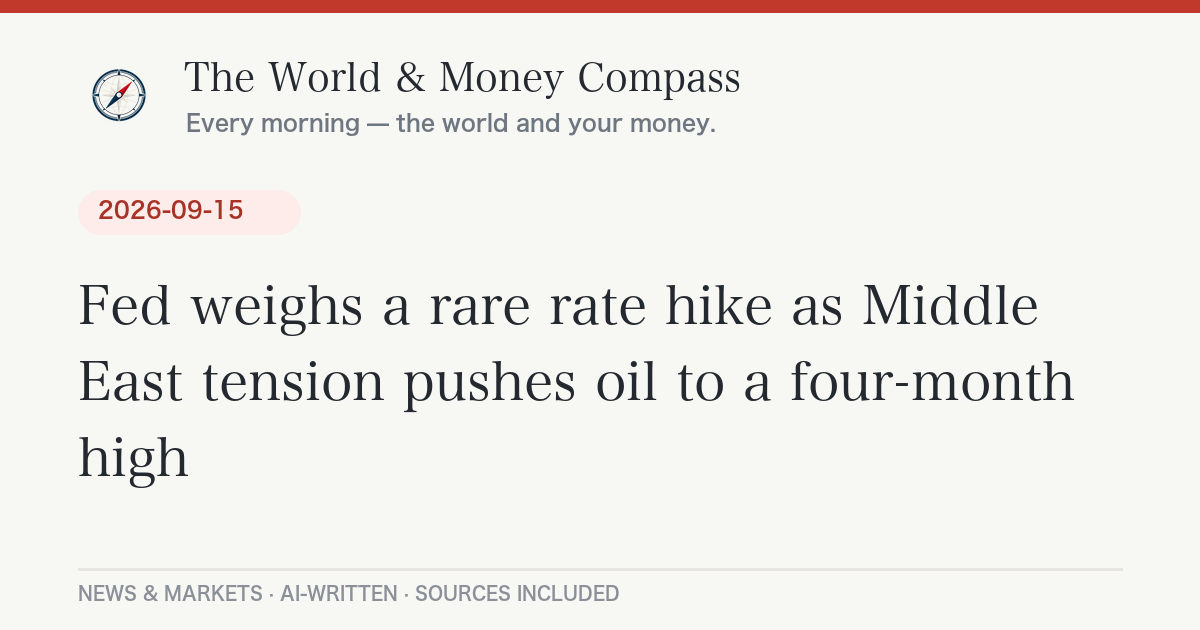
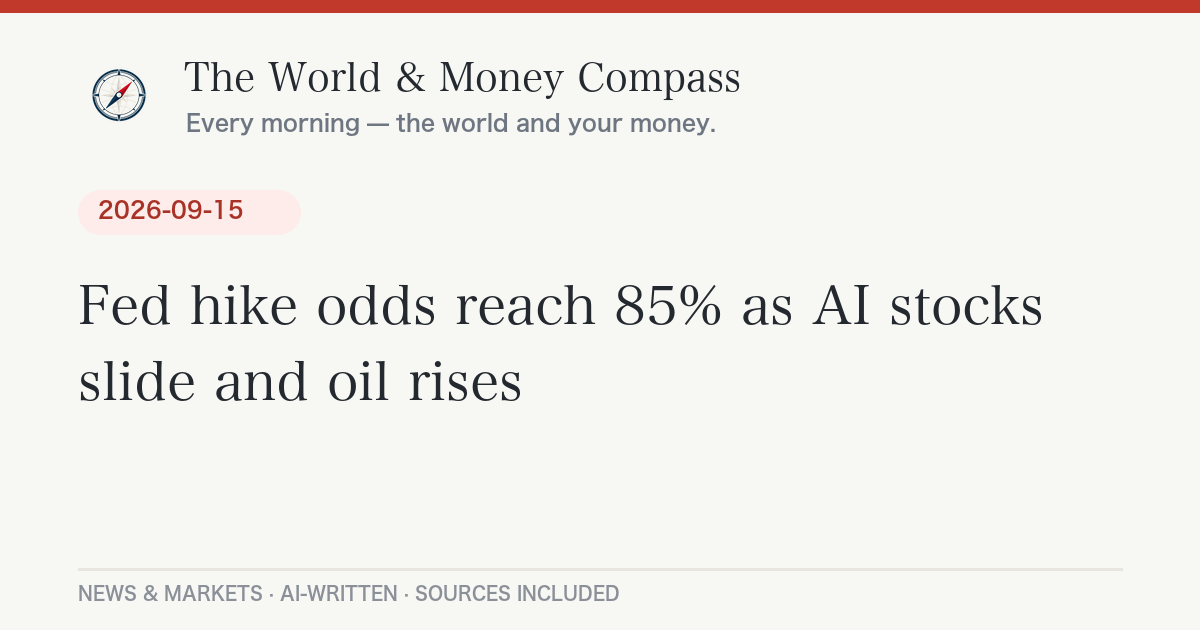
Daily briefing 2026-09-17

Changed region(s): [[0.0617, 0.573, 0.8942, 0.6635], [0.1542, 0.4524, 0.8633, 0.5429], [0.0617, 0.6937, 0.1542, 0.7841]]

diff --git a/_posts/2026-09-17-daily-briefing.md b/_posts/2026-09-17-daily-briefing.md
@@ -1,0 +1,101 @@
+---
+layout: post
+lang: ja
+title: "FRB3年ぶり利上げで米国株急落｜9月17日のニュースとお金"
+date: 2026-09-17 07:37:19 +0900
+categories: [ニュース, 経済]
+headline: "FRB3年ぶり利上げで米国株急落"
+permalink: /2026/09/17/daily-briefing/
+---
+
+## 今日のポイント
+
+FRB（米連邦準備制度理事会）が3年ぶりとなる利上げに踏み切り、ニューヨーク株式市場が大きく下落しました。原油高を背景にした根強いインフレへの警戒が理由です。国内では高市首相のもとで内閣改造が本日行われ、日本維新の会から初入閣が実現する見通しです。株式市場では前日の下落の反動と半導体株高から日経平均が反発しました。
+
+## 今日の羅針盤（Compass Insight）
+
+今日の一番のポイントは、「利上げ＝景気にブレーキ」という単純な図式ではなく、**原油高が主犯のインフレに対する後追いの対応**だという点です。FRBのウォーシュ議長は声明で「インフレは依然高止まりしている」と明言しており、利上げは需要を冷やすためというより、物価上昇の勢いを止めるための措置という色合いが濃いといえます。
+
+家計への影響としては、ドル金利上昇は円安圧力になりやすく、すでに1ドル155円台という水準が続いていることを踏まえると、輸入品やエネルギー価格を通じて日本の生活コストに波及する可能性があります。一方で住宅ローンなど日本国内の金利は日銀の判断に左右されるため、直接連動するわけではありません。ちょうど17〜18日に日銀の金融政策決定会合が開かれており、市場では追加利上げの観測も出ています。結果発表は18日午後の予定で、円相場や国内金利がどちらに振れるかの分岐点になりそうです。
+
+短期的には、原油価格の動向（中東の供給不安）とFRBの追加利上げ観測が株式市場のボラティリティを左右する要因として注目されます。中長期では、インフレが賃金や物価にどこまで定着するかが、日米双方の金融政策運営の鍵を握ります。投資判断はあくまで自己責任で、こうした金利・物価の綱引きを一つの視点として見ておくとよさそうです。
+
+## 今日のニュース
+
+### 日本
+- 高市早苗首相のもとで**9月17日、内閣改造**が行われる。木原官房長官、片山財務相、茂木外相、小泉防衛相らが留任する方向で、連立を組む日本維新の会から初の入閣者が出る見通し（[時事ドットコム](https://www.jiji.com/jc/article?k=2026091600667&g=pol)）
+- **日銀の金融政策決定会合が17〜18日の日程で開催**。結果発表は18日昼前後の予定で、追加利上げの有無が焦点
+- **大型の台風25号（ドゥージェン）が発生**。18〜19日にかけて小笠原諸島へ接近する見込みで、シルバーウィーク中に東日本へ近づく可能性も指摘されている（[ウェザーニュース](https://weathernews.jp/news/202609/160241/)）
+
+### 世界
+- **欧州連合（EU）のフォンデアライエン欧州委員長が、カナダをEUの「準加盟国」第1号にする構想を提案**。トランプ米大統領の関税政策を背景に、カナダが欧州との連携を強めている流れを受けたもの（[Al Jazeera](https://www.aljazeera.com/news/2026/9/16/eu-chief-von-der-leyen-proposes-associate-member-status-for-canada)）
+- **ロシアで下院選が今週末（9月18〜20日）に投票される**予定。与党「統一ロシア」の優勢が伝えられている
+- コソボの戦犯法廷が旧大統領サチ元被告に**禁錮25年の判決**を言い渡し、抗議デモが発生（[Euronews](https://www.euronews.com/europe)）
+
+### アメリカ
+- **FRBが政策金利を0.25%引き上げ、3.75〜4%とした**。3年ぶりの利上げで、ウォーシュ議長は「インフレは依然高止まり」と説明（[CNBC](https://www.cnbc.com/2026/09/16/fed-rate-decision-september-2026.html)、[FRB公式発表](https://www.federalreserve.gov/newsevents/pressreleases/monetary20260916a1.htm)）
+- 利上げ発表を受けニューヨーク株式市場が下落。ダウ平均は前日比600ドル超安（[Yahoo Finance](https://finance.yahoo.com/markets/live/stock-market-today-wednesday-september-16-dow-sp-500-nasdaq-fed-meeting-decision-080356525.html)）
+- ロサンゼルス近郊チャッツワースで**NBC系列局のニュース取材ヘリコプターが墜落**。バス衝突事故を取材中だった機内の記者・操縦士2人と、巻き込まれた地上の歩行者1人の計3人が死亡した（[NBC Los Angeles](https://www.nbclosangeles.com/news/local/helicopter-crashes-in-chatsworth/3942738/)、[NPR](https://www.npr.org/2026/09/16/nx-s1-5970477/helicopter-crash-los-angeles)）
+
+### ヨーロッパ
+- 上記のEU・カナダ準加盟国構想が欧州の外交ニュースの中心に
+- フランスでルノー・日産をめぐる汚職事件の裁判が進行中
+- 欧州議会で外国からの選挙介入への警戒を求める声が上がっている
+
+## 経済とお金の動き
+
+### 世界の市場・相場
+
+| 指標 | 値 | 前日比 |
+|---|---|---|
+| ダウ工業株30種平均 | 51,461.90ドル | <span class="chg-down">-631.21ドル（-1.21%）</span> |
+| S&P500 | 7,551.81 | <span class="chg-down">-0.45%</span> |
+| ナスダック総合 | 25,978.42 | <span class="chg-down">-0.01%</span> |
+| WTI原油（9/15時点） | 約105.75ドル/バレル | <span class="chg-up">+4.36ドル（+4.30%）</span> |
+| ドル円 | 155.05円（9/16基準） | ― |
+
+（[Yahoo Finance](https://finance.yahoo.com/markets/live/stock-market-today-wednesday-september-16-dow-sp-500-nasdaq-fed-meeting-decision-080356525.html)、原油は中東の供給不安を背景に急伸。ドル円はfrankfurter APIの欧州中央銀行基準レート）
+
+FRBの利上げそのものより、**原油高がインフレの主因になっている構図**が市場の警戒を強めています。サウジアラビア紅海側の積み出し拠点での操業停止や、リビアの反政府デモによる減産観測が原油高の背景として伝えられています。
+
+### アメリカの経済
+
+3年ぶりの利上げにより、政策金利は3.75〜4%に。ウォーシュ議長は会見で追加利上げの可能性にも言及しており、市場は年内あと1回の利上げを織り込みつつあります。エネルギー価格上昇によるインフレ圧力が、雇用の底堅さと合わせて利上げ継続の根拠とされています。
+
+### 日本の経済
+
+日経平均株価は**63,923.00円、前日比+438.90円（+0.69%）**で反発しました（[株探ニュース](https://kabutan.jp/news/marketnews/?b=n202609161039)）。米半導体株高や韓国総合株価指数の堅調さを受け、午後にかけて半導体関連銘柄への買いが入ったことが要因です（[NHKニュース](https://news.web.nhk/newsweb/na/nd-20260916de50526)）。17〜18日の日銀会合の結果次第で、今後の株式・為替の流れが変わる可能性があります。
+
+## 今日の注目銘柄・セクター
+
+- **半導体関連株**：前日までの下落の反動に加え、米国・韓国の半導体株高を受けて買いが入り、日経平均の反発をけん引した
+- **原油関連（エネルギー株）**：中東の供給不安を背景にWTI原油が急伸したことで、資源・エネルギー関連銘柄への関心が高まっている
+- **金融株（米国）**：FRBの利上げは銀行の利ざや改善につながる面がある一方、株式市場全体の下落局面では方向感が定まりにくい状況
+
+*※特定銘柄の売買を推奨するものではありません。投資判断はご自身の責任で。*
+
+## まとめ：注目の3つ
+
+1. FRBが3年ぶりに利上げ（政策金利3.75〜4%）、原油高によるインフレ長期化への警戒が背景
+2. 高市改造内閣が本日発足、日本維新の会から初入閣の見通し。17〜18日の日銀会合の結果にも注目
+3. 日経平均は半導体株高で反発（63,923円、+0.69%）も、米国株安・原油高・台風接近など不確実要素が重なる
+
+---
+<div class="post-sources" markdown="1">
+
+**出典：**
+- [第２次高市改造内閣、１７日発足（時事ドットコム）](https://www.jiji.com/jc/article?k=2026091600667&g=pol)
+- [Fed rate decision September 2026: Rates rise to 3.75%-4%（CNBC）](https://www.cnbc.com/2026/09/16/fed-rate-decision-september-2026.html)
+- [Federal Reserve Implementation Note（FRB公式）](https://www.federalreserve.gov/newsevents/pressreleases/monetary20260916a1.htm)
+- [Stock market today: Dow sinks 600 points（Yahoo Finance）](https://finance.yahoo.com/markets/live/stock-market-today-wednesday-september-16-dow-sp-500-nasdaq-fed-meeting-decision-080356525.html)
+- [3 dead after helicopter crash in Chatsworth（NBC Los Angeles）](https://www.nbclosangeles.com/news/local/helicopter-crashes-in-chatsworth/3942738/)
+- [News helicopter crash kills 3（NPR）](https://www.npr.org/2026/09/16/nx-s1-5970477/helicopter-crash-los-angeles)
+- [EU chief proposes associate member status for Canada（Al Jazeera）](https://www.aljazeera.com/news/2026/9/16/eu-chief-von-der-leyen-proposes-associate-member-status-for-canada)
+- [大型台風25号発生（ウェザーニュース）](https://weathernews.jp/news/202609/160241/)
+- [日経平均大引け：前日比438.90円高（株探ニュース）](https://kabutan.jp/news/marketnews/?b=n202609161039)
+- [日経平均株価 値上がり 半導体関連銘柄などに買い注文（NHKニュース）](https://news.web.nhk/newsweb/na/nd-20260916de50526)
+- 為替データ: [frankfurter API](https://api.frankfurter.app/)
+
+*本記事は公開情報をもとに作成しています。*
+
+</div>

diff --git a/_posts/2026-09-17-daily-briefing-en.md b/_posts/2026-09-17-daily-briefing-en.md
@@ -1,0 +1,59 @@
+---
+layout: post
+lang: en
+title: "Fed Hikes Rates to 3.75%-4%, First Hike in Three Years — September 17, 2026"
+date: 2026-09-17 07:37:19 +0900
+headline: "Fed Hikes Rates to 3.75%-4%, First Hike in Three Years"
+permalink: /2026/09/17/daily-briefing/
+---
+
+## Top U.S. Stories
+
+- The Federal Reserve raised its benchmark interest rate by 25 basis points to a target range of **3.75%-4%**, its first hike in three years, with Chair Kevin Warsh citing persistently elevated inflation driven by rising energy prices ([CNBC](https://www.cnbc.com/2026/09/16/fed-rate-decision-september-2026.html), [Federal Reserve](https://www.federalreserve.gov/newsevents/pressreleases/monetary20260916a1.htm)). *Why it matters:* a rate hike after three years signals the Fed sees inflation risk as more urgent than growth risk right now, and markets are now pricing in the possibility of another hike before year-end.
+- U.S. stocks fell sharply on the decision: the Dow dropped over 630 points (-1.21%) to 51,461.90, the S&P 500 slid 0.45% to 7,551.81, and the Nasdaq eased 0.01% to 25,978.42 ([Yahoo Finance](https://finance.yahoo.com/markets/live/stock-market-today-wednesday-september-16-dow-sp-500-nasdaq-fed-meeting-decision-080356525.html)). *Why it matters:* the sell-off shows investors are more worried about the inflation the Fed is fighting than reassured by the Fed fighting it.
+- A news helicopter operated by Angel City Air for NBC Los Angeles and Telemundo 52 crashed in the Chatsworth neighborhood of Los Angeles while covering a bus collision, killing the two crew aboard and a pedestrian on the ground ([NBC Los Angeles](https://www.nbclosangeles.com/news/local/helicopter-crashes-in-chatsworth/3942738/), [NPR](https://www.npr.org/2026/09/16/nx-s1-5970477/helicopter-crash-los-angeles)).
+- European Commission President Ursula von der Leyen proposed making Canada the EU's first "associate member," as U.S. tariff policy pushes Ottawa toward closer ties with Europe ([Al Jazeera](https://www.aljazeera.com/news/2026/9/16/eu-chief-von-der-leyen-proposes-associate-member-status-for-canada)). *Why it matters:* it's a sign that U.S. trade friction is reshaping alliances well beyond North America.
+- In Japan, Prime Minister Sanae Takaichi is reshuffling her cabinet today, with a coalition partner from the Japan Innovation Party set to hold a cabinet post for the first time ([Jiji Press](https://www.jiji.com/jc/article?k=2026091600667&g=pol)).
+- The Bank of Japan began its two-day policy meeting today, with a decision due tomorrow amid market speculation of a further rate hike.
+
+## Compass Insight
+
+Today's headline is the Fed's first rate hike in three years, but the more useful read is *why*: this isn't a Fed cooling an overheating economy, it's a Fed chasing inflation that energy prices are pushing higher. Oil has jumped on Middle East supply concerns, and that's the real driver behind the Fed's move.
+
+For readers watching their own finances, a higher U.S. rate typically supports a stronger dollar, and the yen has already been sitting near 155 to the dollar — a level that keeps import and energy costs elevated in Japan. U.S. mortgage and borrowing costs face more direct pressure from this hike, while Japanese rates depend separately on tomorrow's Bank of Japan decision, which markets are watching for a possible additional hike.
+
+Short term, oil prices and any signal on further Fed tightening are the two things likely to move markets most. Medium term, the key question is whether energy-driven inflation starts feeding into broader wages and prices, which would keep central banks on both sides of the Pacific in tightening mode for longer. This is a framework for what to watch, not investment advice.
+
+## Markets
+
+- Dow Jones Industrial Average: 51,461.90 (-631.21, -1.21%)
+- S&P 500: 7,551.81 (-0.45%)
+- Nasdaq Composite: 25,978.42 (-0.01%)
+- WTI crude: around $105.75/barrel as of Sept 15 (+$4.36, +4.30%), driven by Middle East supply disruptions
+- USD/JPY: 155.05 (ECB reference rate, Sept 16)
+
+## Stocks in Focus
+
+- **Semiconductor stocks** rallied in Tokyo trading, helping the Nikkei 225 close up 0.69% at 63,923.00, tracking strength in U.S. and South Korean chip stocks ([Kabutan](https://kabutan.jp/news/marketnews/?b=n202609161039)).
+- **Energy stocks** are in focus globally as crude oil's sharp rise reflects supply concerns tied to reduced loadings at a Saudi Red Sea export hub and unrest affecting Libyan output.
+
+*This is not a recommendation to buy or sell any specific security.*
+
+---
+<div class="post-sources" markdown="1">
+
+**Sources:**
+- [Fed rate decision September 2026: Rates rise to 3.75%-4% (CNBC)](https://www.cnbc.com/2026/09/16/fed-rate-decision-september-2026.html)
+- [Federal Reserve Implementation Note (Federal Reserve)](https://www.federalreserve.gov/newsevents/pressreleases/monetary20260916a1.htm)
+- [Stock market today: Dow sinks 600 points (Yahoo Finance)](https://finance.yahoo.com/markets/live/stock-market-today-wednesday-september-16-dow-sp-500-nasdaq-fed-meeting-decision-080356525.html)
+- [3 dead after helicopter crash in Chatsworth (NBC Los Angeles)](https://www.nbclosangeles.com/news/local/helicopter-crashes-in-chatsworth/3942738/)
+- [News helicopter crash kills 3 (NPR)](https://www.npr.org/2026/09/16/nx-s1-5970477/helicopter-crash-los-angeles)
+- [EU chief proposes associate member status for Canada (Al Jazeera)](https://www.aljazeera.com/news/2026/9/16/eu-chief-von-der-leyen-proposes-associate-member-status-for-canada)
+- [Cabinet reshuffle set for Sept 17 (Jiji Press)](https://www.jiji.com/jc/article?k=2026091600667&g=pol)
+- Exchange rate data: [frankfurter API](https://api.frankfurter.app/)
+
+*This report is based on publicly available information.*
+
+</div>
+
+*Auto-generated and AI-written. Not investment advice.*
